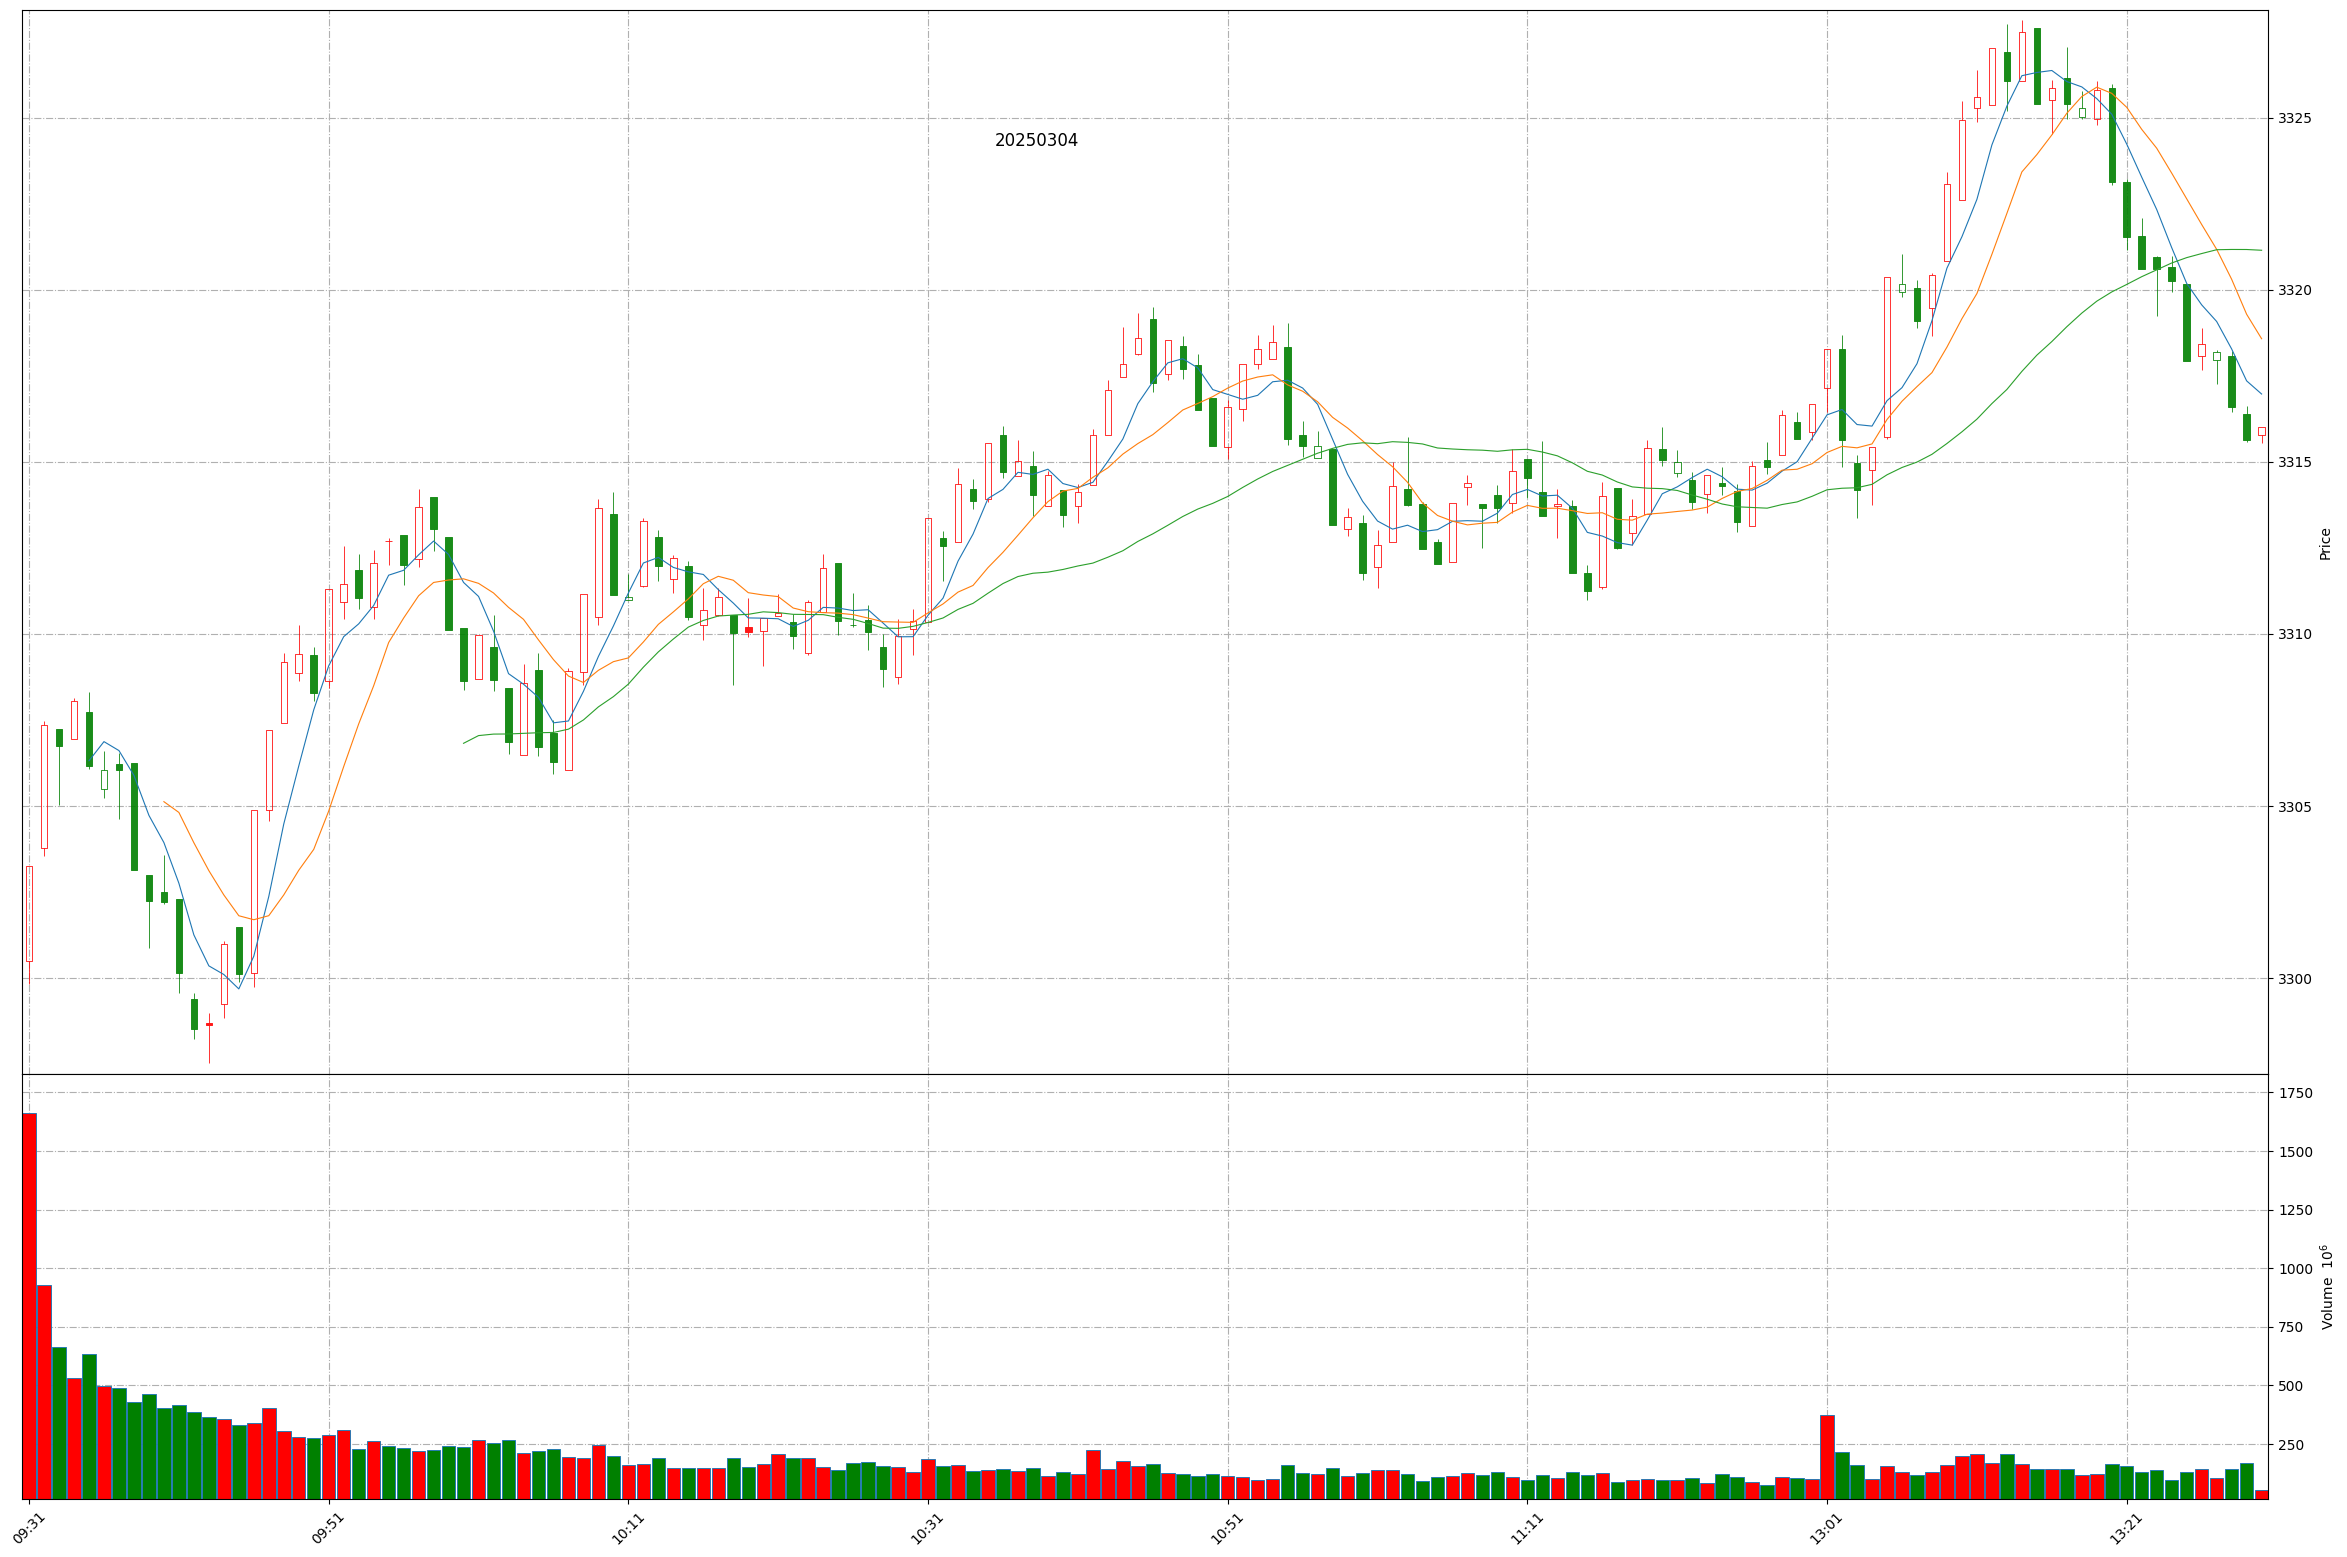
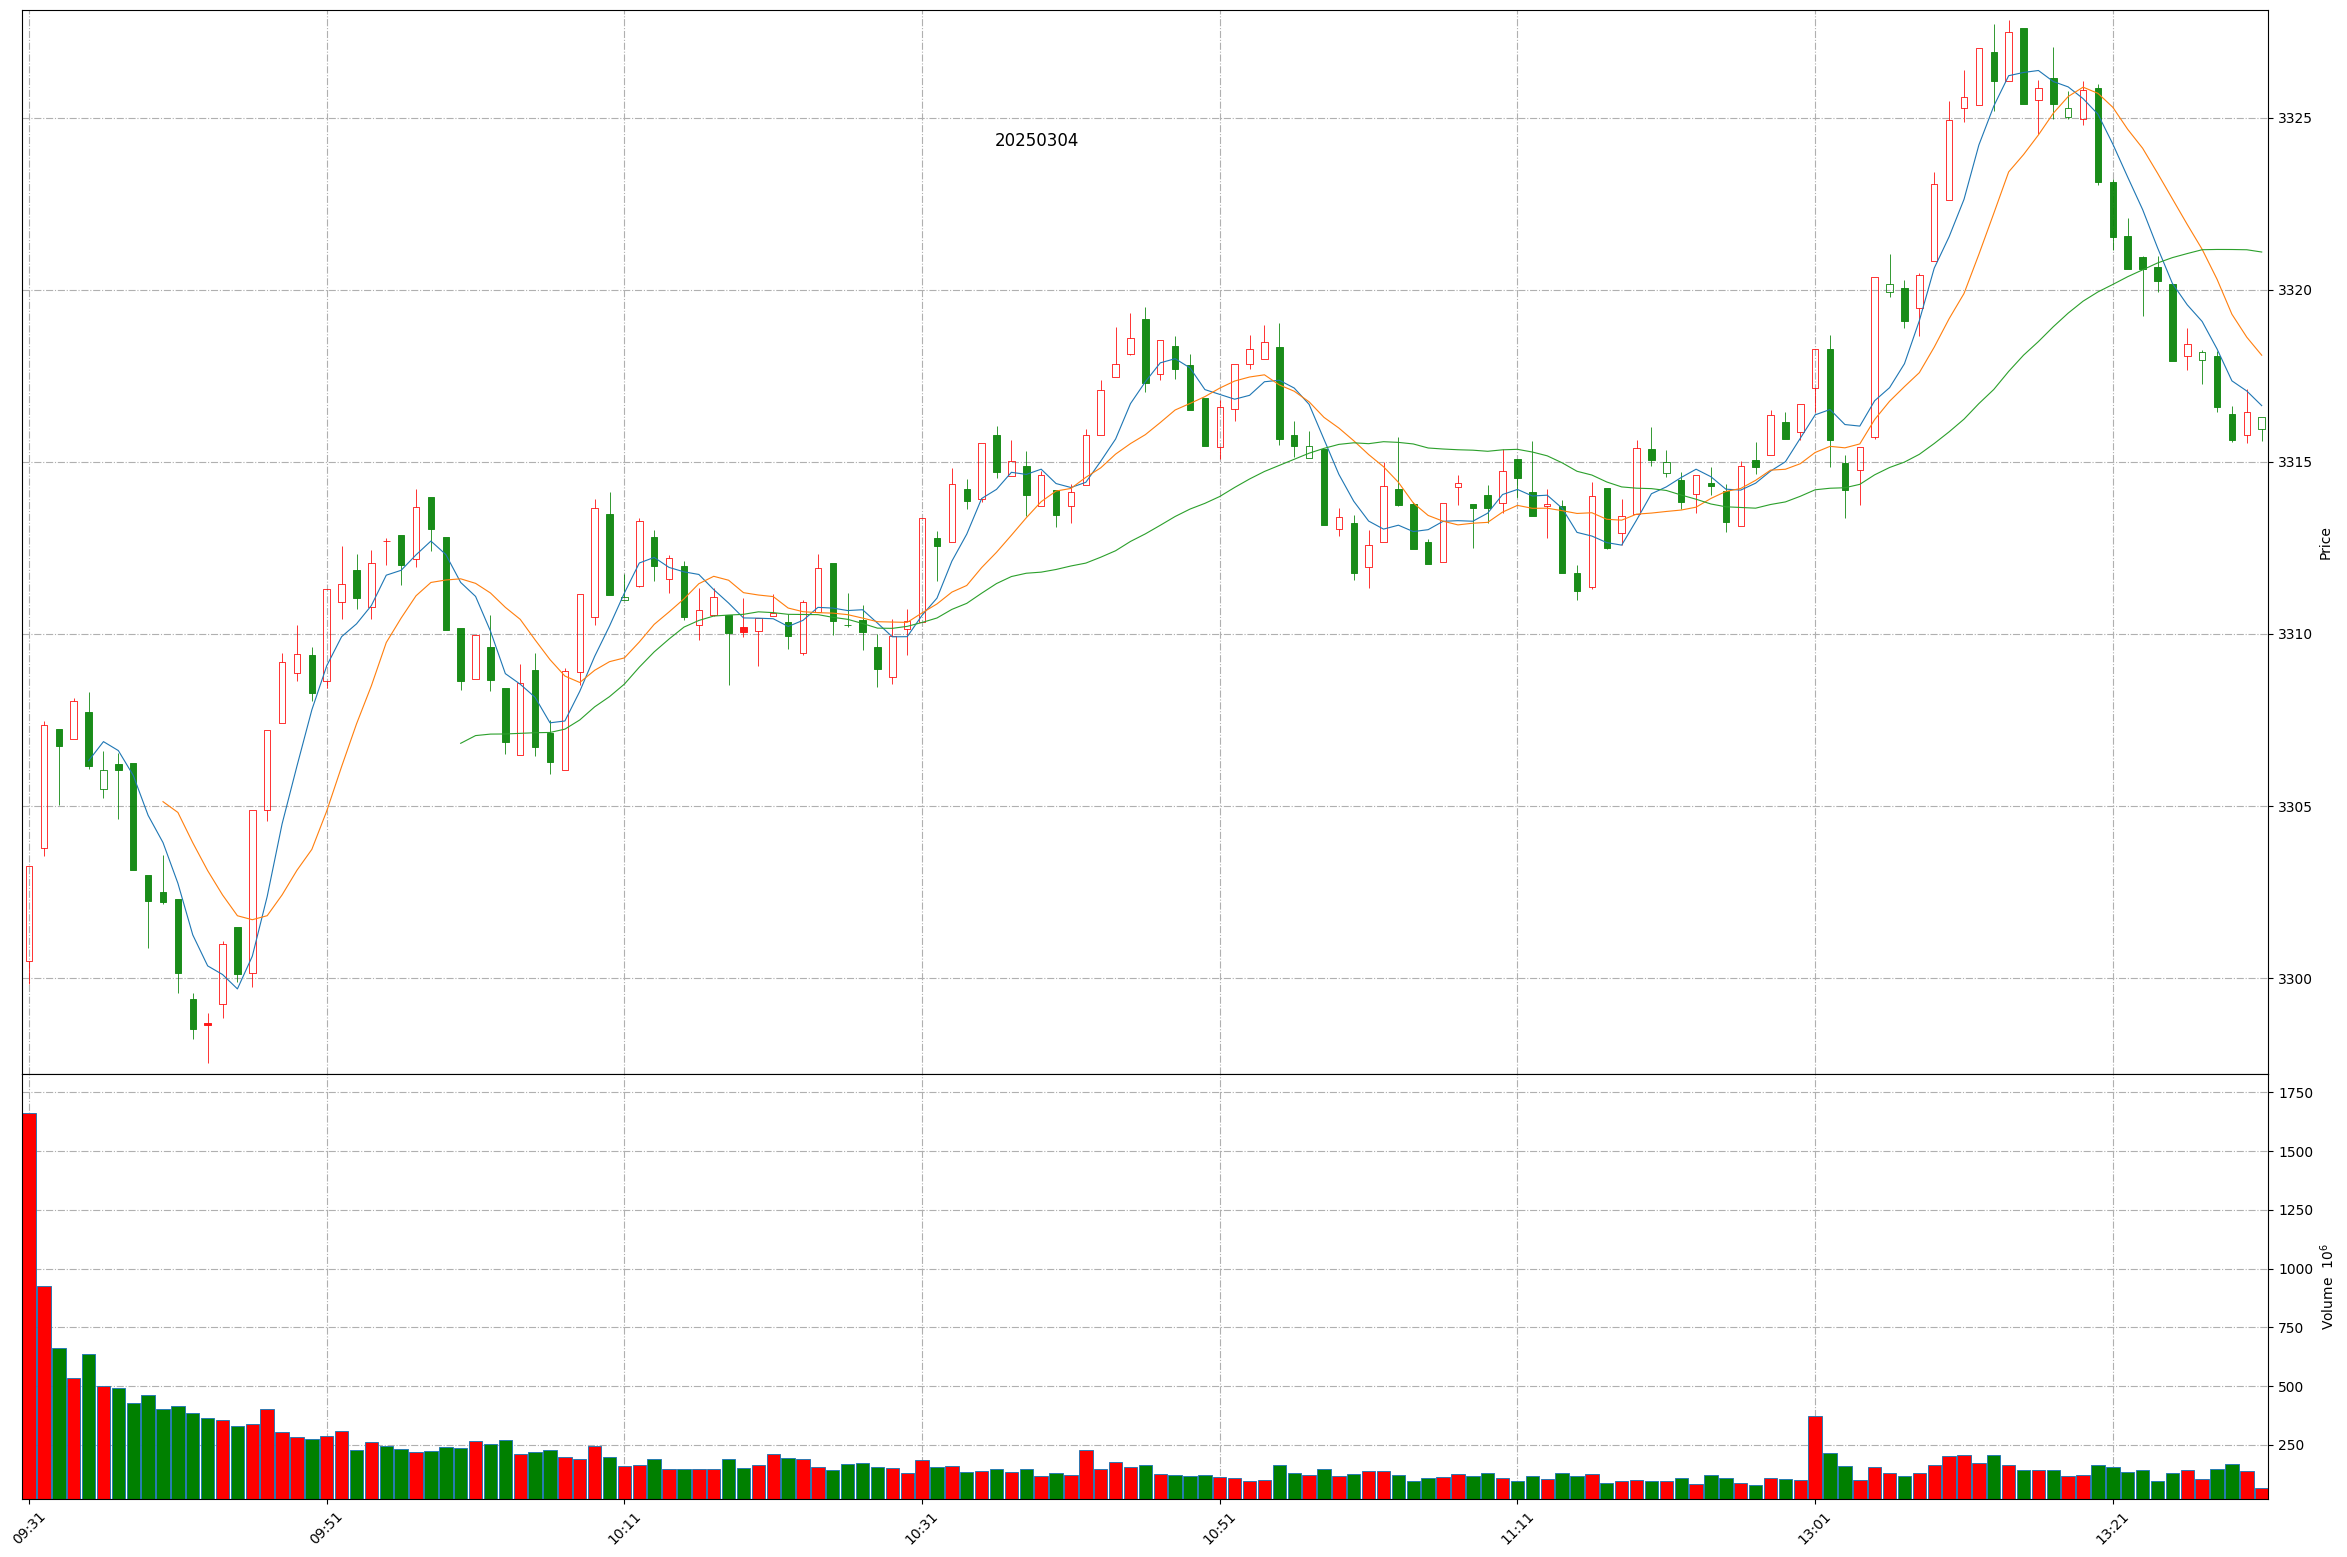
Github action update at 2025-03-04 13:30:32.

diff --git a/README.md b/README.md
@@ -1,11 +1,11 @@
 
 # Daily-A-share-market-quotes 每日 A 股指数（5min 更新）- 20250304
 
-### 上证指数 20250304 13:29
+### 上证指数 20250304 13:30
 ![](./fig/2025/3/20250304-sh000001.png)
 
-### 深证成指 20250304 13:29
+### 深证成指 20250304 13:30
 ![](./fig/2025/3/20250304-sz399001.png)
 
-### 北证50 20250304 13:29
+### 北证50 20250304 13:30
 ![](./fig/2025/3/20250304-bj899050.png)
